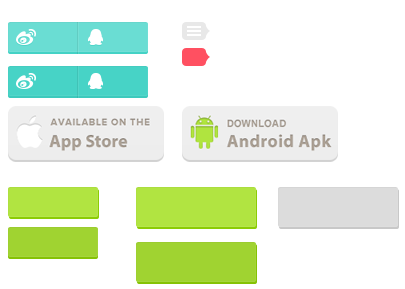
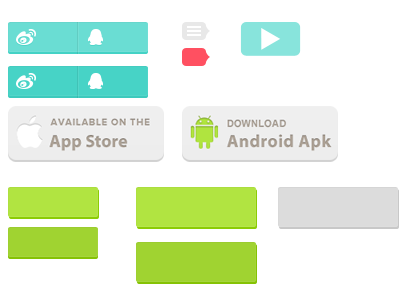
请帖制作完成

Changed region(s): [[0.5926, 0.0623, 0.7407, 0.218]]

diff --git a/css/module.css b/css/module.css
@@ -166,14 +166,8 @@ input.ui-btn-text,button.ui-btn-text{*vertical-align: top; }
 .small.ui-btn .ui-btn-text{ padding: 0 12px; line-height: 23px; height: 23px; font-size: 12px;}
 .middle.ui-btn .ui-btn-text{ padding:0 14px;line-height: 29px; height: 29px;}
 .large.ui-btn .ui-btn-text{ font-size:18px;padding:0 10px;line-height: 40px; height: 40px;}
-.ui-btn-green,.ui-btn-green .ui-btn-text{
-    background-color: #b0e441;
-    border-bottom: 1px solid #8bcb02;
-    border-right: 1px solid #8bcb02;
-}
-.ui-btn-green:hover,.ui-btn-green:hover .ui-btn-text {
-    background-color: #9fd22f;
-}
+.ui-btn-green,.ui-btn-green .ui-btn-text{ background-color: #b0e441; border-bottom: 1px solid #8bcb02; border-right: 1px solid #8bcb02; }
+.ui-btn-green:hover,.ui-btn-green:hover .ui-btn-text { background-color: #9fd22f; }
 
 .blue.ui-btn { background-color: #2daebf; }
 .blue.ui-btn:hover { background-color: #007d9a; }
@@ -185,23 +179,19 @@ input.ui-btn-text,button.ui-btn-text{*vertical-align: top; }
 .orange.ui-btn:hover { background-color: #d45500; }
 .orangellow.ui-btn { background-color: #ffb515; }
 .orangellow.ui-btn:hover { background-color: #fc9200; }
-.white.ui-btn { background-color: #fff;
-    border: 1px solid #ccc; color: #666 !important;
-    font-weight: normal; text-shadow: 0 1px 1px rgba(255,255,255,1); }
+.white.ui-btn { background-color: #fff; border: 1px solid #ccc; color: #666 !important; font-weight: normal; text-shadow: 0 1px 1px rgba(255,255,255,1); }
 .white.ui-btn:hover { background-color: #eee; }
 /*Strike button*/
 .strike.ui-btn	{background-color: #4ADFC1}
 .strike.ui-btn:hover {background-color: #39ceb0}
 .gray.ui-btn{background-color: #dcdcdc;border-bottom: 2px solid #c7c7c7;border-right: 1px solid #c7c7c7;}
 .gray.ui-btn:hover{background-color: #999999;}
-.gray.ui-btn:hover
 
 /*登录按钮*/
 .ui-login-btn{
-    height: 32px;
     width: 143px;
+    height: 32px;
     line-height: 32px;
-
 }
 .ui-login-btn .qq{
     background: url("../assets/images/buttons.png") -78px -22px no-repeat;
@@ -438,11 +428,11 @@ input.ui-btn-text,button.ui-btn-text{*vertical-align: top; }
     width: 340px;
     height: 85px;
 }
-#indexBanner .ui-switchable-content .download-panel h3{
+download-panel h3{
     color: #fff;
     font: bold 14px;
 }
-#indexBanner .ui-switchable-content .download-btn a{
+.ui-download-btn a{
     float: left;
     margin-top: 10px;
     width: 157px;
@@ -450,7 +440,7 @@ input.ui-btn-text,button.ui-btn-text{*vertical-align: top; }
     text-indent: -9999px;
     background: url("../assets/images/buttons.png") -8px -106px no-repeat;
 }
-#indexBanner .ui-switchable-content .download-btn .android{
+.ui-download-btn .android{
     margin-left: 25px;
     background-position:  -182px -106px;
 
@@ -495,6 +485,21 @@ input.ui-btn-text,button.ui-btn-text{*vertical-align: top; }
     z-index: 9;
 }
 .note:hover .btn-drag{
+    display:block;
+}
+.note .btn-play {
+    position: absolute;
+    left: 50%;
+    top: 50%;
+    width: 59px;
+    height: 34px;
+    background: url("../assets/images/buttons.png") -241px -22px no-repeat;
+    margin: -17px 0 0 -30px;
+    display: none;
+    cursor: pointer;
+    z-index: 9;
+}
+.note:hover .btn-drag,.note:hover .btn-play{
     display:block;
 }
 .placeHolder{
@@ -625,13 +630,13 @@ input.ui-btn-text,button.ui-btn-text{*vertical-align: top; }
     width: 11px;
     height: 11px;
     margin: 0 2px;
-    text-indent: -999px;                                                              ---------------------------------------------
-background: #fff;
-border-radius: 10px;
-cursor: pointer;
-overflow: hidden;
-border: 1px solid #aaa;
-    }
+    text-indent: -999px;
+    background: #fff;
+    border-radius: 10px;
+    cursor: pointer;
+    overflow: hidden;
+    border: 1px solid #aaa;
+}
 
 .pages li:hover {
     background: #eee;
@@ -685,7 +690,7 @@ border: 1px solid #aaa;
 progid:DXImageTransform.Microsoft.Shadow(color=#999999,direction=90,strength=2)
 progid:DXImageTransform.Microsoft.Shadow(color=#999999,direction=180,strength=2)
 progid:DXImageTransform.Microsoft.Shadow(color=#999999,direction=270,strength=2);
-    }
+}
 /*滚动条*/
 .ui-scrollbar-vertical {
     position: absolute;

diff --git a/css/common.css b/css/common.css
@@ -193,7 +193,7 @@
     top: 0;
     width: 75px;
     height: 75px;
-    margin: -35px 0 0 -30px;
+    margin: -35px 0 0 -15px;
     background: url("../assets/images/number-bg.png") -10px 0 no-repeat;
     font:bold 40px/75px "微软雅黑" "microsoft yahei" "sans serif";
     color:#a9dc3c;
@@ -592,6 +592,16 @@
     background: url("../assets/images/iphone5.png") no-repeat;
     z-index: 1;
 }
+.thrid-step .iphone5{
+    left: 113px;
+    margin-left: 0;
+}
+.iphone5 .screen-inner{
+    border: 1px solid red;
+    width: 256px;
+    height: 456px;
+    margin: 95px 0 0 25px;
+}
 .iphone5-inner{
     margin-left: 82px;
     margin-top: 320px;
@@ -607,4 +617,49 @@
 .invitation-btn div{
     float: right;
     margin-right: 10px;
+}
+
+.weixin-panel {
+    float: right;
+    margin-right: 40px;
+    height: 457px;
+}
+.weixin-panel h2{
+    font-size: 18px;
+    color: #666666;
+}
+.weixin-panel h2 span{
+    font-size: 14px;
+    color: #aca195;
+}
+
+.weixin-panel .wx-wrap {
+    height: 225px;
+}
+.weixin-panel .wx-wrap img{
+    float: left;
+}
+.wx-wrap .download-btn {
+    position: relative;
+    left: 225px;
+    top: 175px;
+    width: 34px;
+    height: 34px;
+    background: url("../assets/images/download-btn.jpg") no-repeat;
+}
+.wx-wrap .download-btn a{
+    display: block;
+    text-indent: -9999px;
+}
+.weixin-panel .code{
+    color: #ef241f;
+    font-size: 18px;
+    margin-left: 35px;
+}
+.weixin-panel .info{
+    height: 35px;
+    line-height: 35px;
+    font-size: 14px;
+    color: #b1e441;
+    border-bottom: 1px solid #aca195;
 }

diff --git a/invitation-editNew.html b/invitation-editNew.html
@@ -74,9 +74,9 @@
                         <div class="form-item">
                             <label class="label">你的身份:</label>
                             <input class="ui-radio" type="radio" name="sex"/>
-                            <span class="ui-radio-txt"> 男</span>
+                            <span class="ui-radio-txt"> 新郎</span>
                             <input class="ui-radio" type="radio" name="sex"/>
-                            <span class="ui-radio-txt"> 女</span>
+                            <span class="ui-radio-txt"> 新娘</span>
                         </div>
                         <div class="form-item">
                             <label for="" class="label">你的名字:</label>

diff --git a/portal-fav.html b/portal-fav.html
@@ -16,20 +16,6 @@
     <!--[if lt IE 9]>
     <script type="text/javascript" src="js/dist/html5shiv.js"></script>
     <![endif]-->
-    <!--<script type="text/javascript">
-        seajs.config({
-            alias: {
-                'jquery': 'http://libs.baidu.com/jquery/1.9.0/jquery.min.js', //未模块化
-                "$": "gallery/jquery.js"
-            },
-            preload: ["jquery"]
-        });
-
-        // 将 jQuery 暴露到全局
-        seajs.modify('jquery', function(require, exports) {
-            window.jQuery = window.$ = exports
-        });
-    </script>-->
     <script type="text/javascript" src="js/application.js"></script>
 </head>
 <body>

diff --git a/invitation-editNew4.html b/invitation-editNew4.html
@@ -63,7 +63,6 @@
                 <i class="dot"></i>
                 <i class="icon icon-active"></i>
             </div>
-            <div class="step"> 3</div>
         </header>
         <section class="invitation-panel thrid-step clearfix">
             <div class="iphone5">
@@ -101,11 +100,7 @@
     </div>
     <div class="clearfix invitation-btn">
         <div class="ui-btn ui-btn-green large">
-            <span class="ui-btn-text"> 上一步 </span>
-        </div>
-
-        <div class="ui-btn ui-btn-green large">
-            <span class="ui-btn-text"> 完成 </span>
+            <span class="ui-btn-text"> 编辑请帖 </span>
         </div>
     </div>
 

diff --git a/index.html b/index.html
@@ -153,7 +153,7 @@
                                 <img src="assets/test/banner1.jpg" alt="xxx"/>
                                 <div class="download-panel">
                                     <h3>免费下载</h3>
-                                    <div class="download-btn">
+                                    <div class="ui-download-btn">
                                         <a href="/" class="iphone" target="_blank">iphone</a>
                                         <a href="/" class="android" target="_blank">android</a>
                                     </div>
